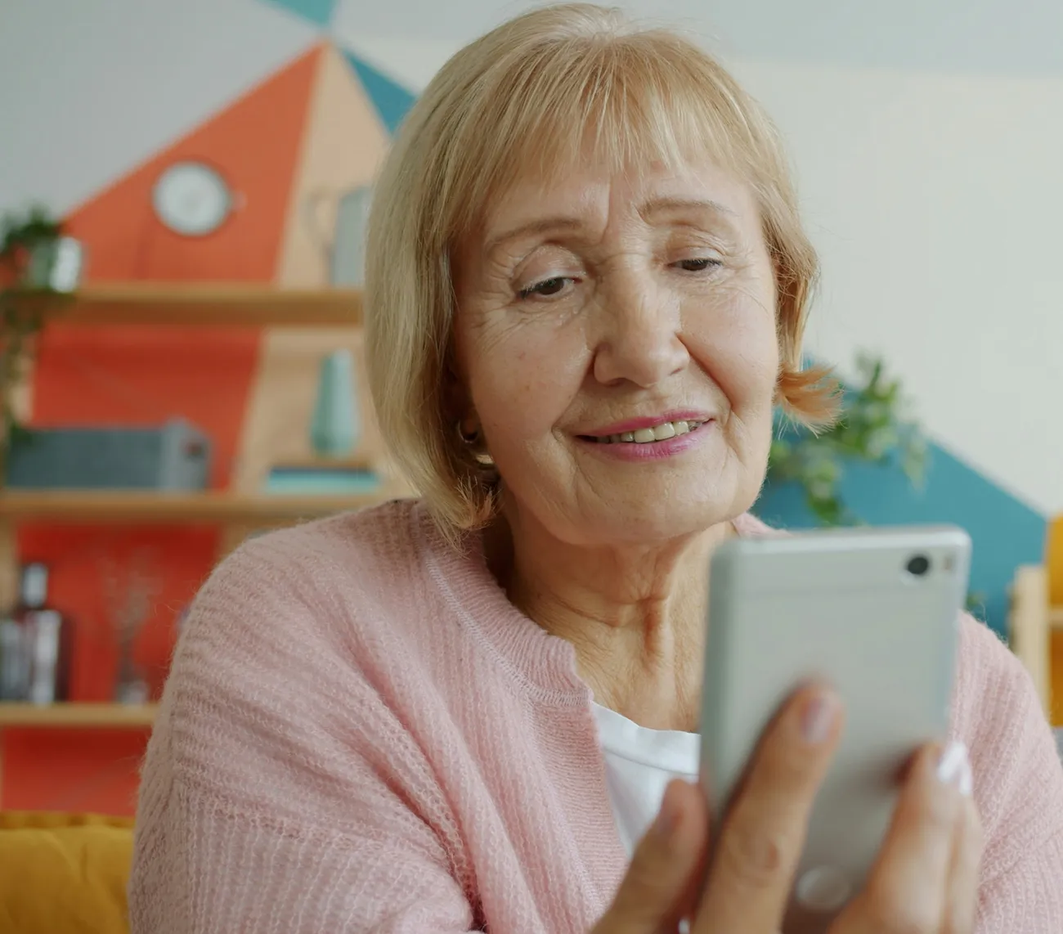
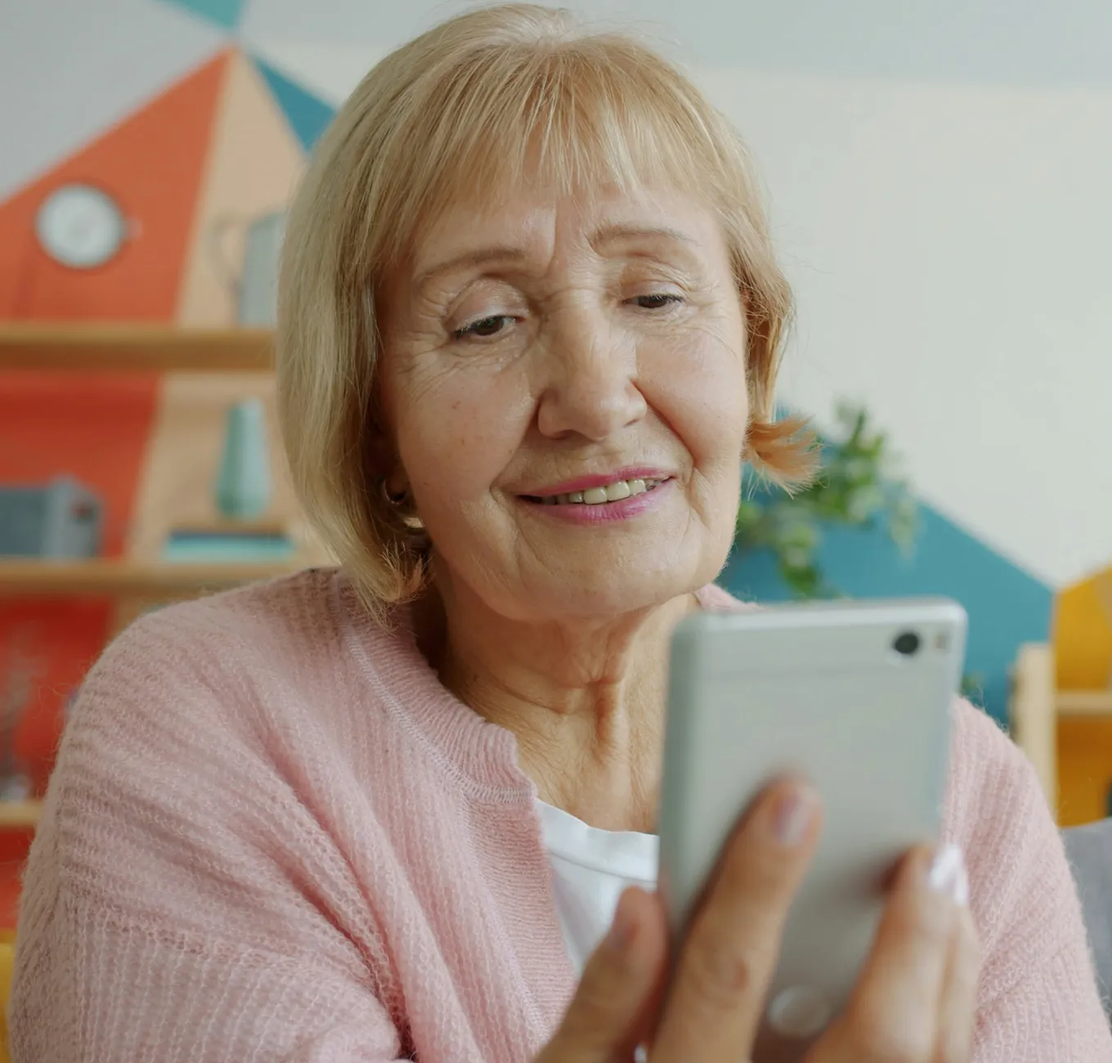
About hero: recrop so the phone is clear, shoulder at the edge, more space before the text
Claude-Session: https://claude.ai/code/session_01E5z8CGgsBBaHRpGiq45ZM7

diff --git a/examples/check/index.html b/examples/check/index.html
@@ -8,12 +8,12 @@
 <meta name="theme-color" content="#FAF7F2">
 <meta property="og:title" content="Example: check a message · ChatRetiree">
 <meta property="og:description" content="Tap through samples of ChatRetiree checking a message.">
-<meta property="og:image" content="https://chatretiree.com/assets/icon.png?v=19">
-<link rel="icon" href="../../assets/favicon.png?v=19" type="image/png">
-<link rel="apple-touch-icon" href="../../assets/icon.png?v=19">
-<link rel="stylesheet" href="../../assets/site.css?v=19">
-<script src="../../assets/site.js?v=19"></script>
-<script src="../../assets/examples.js?v=19"></script>
+<meta property="og:image" content="https://chatretiree.com/assets/icon.png?v=23">
+<link rel="icon" href="../../assets/favicon.png?v=23" type="image/png">
+<link rel="apple-touch-icon" href="../../assets/icon.png?v=23">
+<link rel="stylesheet" href="../../assets/site.css?v=23">
+<script src="../../assets/site.js?v=23"></script>
+<script src="../../assets/examples.js?v=23"></script>
 </head>
 <body>
 <a class="skip" href="#main">Skip to main content</a>
@@ -43,7 +43,7 @@
   <h2 class="ex-h">A text about a package</h2>
   <p class="who-label">Someone pastes a text they got, then taps “Look at it together.”</p>
   <div class="ex-row">
-    <div class="ex-phone"><figure class="device step-in"><div class="device-screen" tabindex="0" role="group" aria-label="App screen. Scroll to see more."><img src="../../assets/app/package-input.webp?v=19" alt="The app with a pasted text: PARCEL NOTICE: Your package is on hold due to an unpaid $1.99 redelivery fee. Pay now to avoid return to sender, with a link." width="390"></div></figure><button class="btn btn-primary go" type="button">Look at it together<svg viewBox="0 0 24 24" fill="none" stroke="currentColor" stroke-width="2" stroke-linecap="round" stroke-linejoin="round" aria-hidden="true" focusable="false"><path d="M5 12h14M13 6l6 6-6 6"/></svg></button><p class="thinking" aria-hidden="true"><span class="dots"><i></i><i></i><i></i></span>Looking at it with you…</p><div class="answer" tabindex="-1"><figure class="device "><div class="device-screen" tabindex="0" role="group" aria-label="App screen. Scroll to see more."><img src="../../assets/app/package.webp?v=19" alt="The app’s answer: This has the signs of a scam. This message has several signs that are common in scams. What we’d do next: Don’t reply, click links or pay. Contact the company using a phone number or website you already trust. Why we think so: It asks for a small fee. Fake delivery notices do this to collect card details. It warns that something bad will happen to your account, benefits or device. It pushes you to act right away, before you have time to check." width="390"></div></figure><p class="scroll-hint">Scroll inside the phone to see more.</p></div></div>
+    <div class="ex-phone"><figure class="device step-in"><div class="device-screen" tabindex="0" role="group" aria-label="App screen. Scroll to see more."><img src="../../assets/app/package-input.webp?v=23" alt="The app with a pasted text: PARCEL NOTICE: Your package is on hold due to an unpaid $1.99 redelivery fee. Pay now to avoid return to sender, with a link." width="390"></div></figure><button class="btn btn-primary go" type="button">Look at it together<svg viewBox="0 0 24 24" fill="none" stroke="currentColor" stroke-width="2" stroke-linecap="round" stroke-linejoin="round" aria-hidden="true" focusable="false"><path d="M5 12h14M13 6l6 6-6 6"/></svg></button><p class="thinking" aria-hidden="true"><span class="dots"><i></i><i></i><i></i></span>Looking at it with you…</p><div class="answer" tabindex="-1"><figure class="device "><div class="device-screen" tabindex="0" role="group" aria-label="App screen. Scroll to see more."><img src="../../assets/app/package.webp?v=23" alt="The app’s answer: This has the signs of a scam. This message has several signs that are common in scams. What we’d do next: Don’t reply, click links or pay. Contact the company using a phone number or website you already trust. Why we think so: It asks for a small fee. Fake delivery notices do this to collect card details. It warns that something bad will happen to your account, benefits or device. It pushes you to act right away, before you have time to check." width="390"></div></figure><p class="scroll-hint">Scroll inside the phone to see more.</p></div></div>
     <div class="ex-side"><p>The app looks for the warning signs scammers rely on, checks links against Google’s list of known harmful websites without opening them, and tells you what to do next.</p><p style="margin-top:12px">It never calls something “safe.” When it can’t tell, it says so and helps you check another way.</p></div>
   </div>
 </article>
@@ -51,7 +51,7 @@
   <h2 class="ex-h">A picture of a bank text</h2>
   <p class="who-label">Someone adds a screenshot. The app reads the words right on the phone.</p>
   <div class="ex-row">
-    <div class="ex-phone"><figure class="device step-in"><div class="device-screen" tabindex="0" role="group" aria-label="App screen. Scroll to see more."><img src="../../assets/app/bank-input.webp?v=19" alt="The app showing a screenshot of a text from First Harbor Bank asking to move savings to a new safe account." width="390"></div></figure><button class="btn btn-primary go" type="button">Look at it together<svg viewBox="0 0 24 24" fill="none" stroke="currentColor" stroke-width="2" stroke-linecap="round" stroke-linejoin="round" aria-hidden="true" focusable="false"><path d="M5 12h14M13 6l6 6-6 6"/></svg></button><p class="thinking" aria-hidden="true"><span class="dots"><i></i><i></i><i></i></span>Looking at it with you…</p><div class="answer" tabindex="-1"><figure class="device "><div class="device-screen" tabindex="0" role="group" aria-label="App screen. Scroll to see more."><img src="../../assets/app/bank.webp?v=19" alt="The app’s answer: This has the signs of a scam. What we’d do next: Don’t reply or move any money. Call your bank using the number on the back of your card or on your statement. Why we think so: It asks you to move money to a so-called safe account. Real banks never ask you to do this. It tells you to keep it secret. It warns that something bad will happen to your account." width="390"></div></figure><p class="scroll-hint">Scroll inside the phone to see more.</p></div></div>
+    <div class="ex-phone"><figure class="device step-in"><div class="device-screen" tabindex="0" role="group" aria-label="App screen. Scroll to see more."><img src="../../assets/app/bank-input.webp?v=23" alt="The app showing a screenshot of a text from First Harbor Bank asking to move savings to a new safe account." width="390"></div></figure><button class="btn btn-primary go" type="button">Look at it together<svg viewBox="0 0 24 24" fill="none" stroke="currentColor" stroke-width="2" stroke-linecap="round" stroke-linejoin="round" aria-hidden="true" focusable="false"><path d="M5 12h14M13 6l6 6-6 6"/></svg></button><p class="thinking" aria-hidden="true"><span class="dots"><i></i><i></i><i></i></span>Looking at it with you…</p><div class="answer" tabindex="-1"><figure class="device "><div class="device-screen" tabindex="0" role="group" aria-label="App screen. Scroll to see more."><img src="../../assets/app/bank.webp?v=23" alt="The app’s answer: This has the signs of a scam. What we’d do next: Don’t reply or move any money. Call your bank using the number on the back of your card or on your statement. Why we think so: It asks you to move money to a so-called safe account. Real banks never ask you to do this. It tells you to keep it secret. It warns that something bad will happen to your account." width="390"></div></figure><p class="scroll-hint">Scroll inside the phone to see more.</p></div></div>
     <div class="ex-side"><p>The app looks for the warning signs scammers rely on, checks links against Google’s list of known harmful websites without opening them, and tells you what to do next.</p><p style="margin-top:12px">It never calls something “safe.” When it can’t tell, it says so and helps you check another way.</p></div>
   </div>
 </article>
@@ -59,7 +59,7 @@
   <h2 class="ex-h">A worrying phone call</h2>
   <p class="who-label">Someone types what happened on a call.</p>
   <div class="ex-row">
-    <div class="ex-phone"><figure class="device step-in"><div class="device-screen" tabindex="0" role="group" aria-label="App screen. Scroll to see more."><img src="../../assets/app/call-input.webp?v=19" alt="The app with a description: a young man called saying he was my grandson, in jail, needing $3,000 bail paid in gift cards." width="390"></div></figure><button class="btn btn-primary go" type="button">Look at it together<svg viewBox="0 0 24 24" fill="none" stroke="currentColor" stroke-width="2" stroke-linecap="round" stroke-linejoin="round" aria-hidden="true" focusable="false"><path d="M5 12h14M13 6l6 6-6 6"/></svg></button><p class="thinking" aria-hidden="true"><span class="dots"><i></i><i></i><i></i></span>Looking at it with you…</p><div class="answer" tabindex="-1"><figure class="device "><div class="device-screen" tabindex="0" role="group" aria-label="App screen. Scroll to see more."><img src="../../assets/app/call.webp?v=19" alt="The app’s answer: This has the signs of a scam. If you’re worried someone you love is in trouble: if someone may be in danger right now, call 911. Hang up, then call your family member yourself on a number you already have. Don’t send any money, gift cards or cryptocurrency. Why we think so: it asks for payment with gift cards, it tells you to keep it secret, and it describes a family emergency that needs money fast." width="390"></div></figure><p class="scroll-hint">Scroll inside the phone to see more.</p></div></div>
+    <div class="ex-phone"><figure class="device step-in"><div class="device-screen" tabindex="0" role="group" aria-label="App screen. Scroll to see more."><img src="../../assets/app/call-input.webp?v=23" alt="The app with a description: a young man called saying he was my grandson, in jail, needing $3,000 bail paid in gift cards." width="390"></div></figure><button class="btn btn-primary go" type="button">Look at it together<svg viewBox="0 0 24 24" fill="none" stroke="currentColor" stroke-width="2" stroke-linecap="round" stroke-linejoin="round" aria-hidden="true" focusable="false"><path d="M5 12h14M13 6l6 6-6 6"/></svg></button><p class="thinking" aria-hidden="true"><span class="dots"><i></i><i></i><i></i></span>Looking at it with you…</p><div class="answer" tabindex="-1"><figure class="device "><div class="device-screen" tabindex="0" role="group" aria-label="App screen. Scroll to see more."><img src="../../assets/app/call.webp?v=23" alt="The app’s answer: This has the signs of a scam. If you’re worried someone you love is in trouble: if someone may be in danger right now, call 911. Hang up, then call your family member yourself on a number you already have. Don’t send any money, gift cards or cryptocurrency. Why we think so: it asks for payment with gift cards, it tells you to keep it secret, and it describes a family emergency that needs money fast." width="390"></div></figure><p class="scroll-hint">Scroll inside the phone to see more.</p></div></div>
     <div class="ex-side"><p>The app looks for the warning signs scammers rely on, checks links against Google’s list of known harmful websites without opening them, and tells you what to do next.</p><p style="margin-top:12px">It never calls something “safe.” When it can’t tell, it says so and helps you check another way.</p></div>
   </div>
 </article>
@@ -67,7 +67,7 @@
   <h2 class="ex-h">A message from a doctor’s office</h2>
   <p class="who-label">Not everything is a scam. When we can’t tell, we say so.</p>
   <div class="ex-row">
-    <div class="ex-phone"><figure class="device step-in"><div class="device-screen" tabindex="0" role="group" aria-label="App screen. Scroll to see more."><img src="../../assets/app/doctor-input.webp?v=19" alt="The app with a pasted text: Hi, this is Dr. Patel’s office calling about your recent test results. Please call us back." width="390"></div></figure><button class="btn btn-primary go" type="button">Look at it together<svg viewBox="0 0 24 24" fill="none" stroke="currentColor" stroke-width="2" stroke-linecap="round" stroke-linejoin="round" aria-hidden="true" focusable="false"><path d="M5 12h14M13 6l6 6-6 6"/></svg></button><p class="thinking" aria-hidden="true"><span class="dots"><i></i><i></i><i></i></span>Looking at it with you…</p><div class="answer" tabindex="-1"><figure class="device "><div class="device-screen" tabindex="0" role="group" aria-label="App screen. Scroll to see more."><img src="../../assets/app/doctor.webp?v=19" alt="The app’s answer: Check with them before you do anything. Nothing proves this message is a scam, but some things need checking before you respond. What we’d do next: contact them yourself using a phone number or website you already have, not one from the message." width="390"></div></figure><p class="scroll-hint">Scroll inside the phone to see more.</p></div></div>
+    <div class="ex-phone"><figure class="device step-in"><div class="device-screen" tabindex="0" role="group" aria-label="App screen. Scroll to see more."><img src="../../assets/app/doctor-input.webp?v=23" alt="The app with a pasted text: Hi, this is Dr. Patel’s office calling about your recent test results. Please call us back." width="390"></div></figure><button class="btn btn-primary go" type="button">Look at it together<svg viewBox="0 0 24 24" fill="none" stroke="currentColor" stroke-width="2" stroke-linecap="round" stroke-linejoin="round" aria-hidden="true" focusable="false"><path d="M5 12h14M13 6l6 6-6 6"/></svg></button><p class="thinking" aria-hidden="true"><span class="dots"><i></i><i></i><i></i></span>Looking at it with you…</p><div class="answer" tabindex="-1"><figure class="device "><div class="device-screen" tabindex="0" role="group" aria-label="App screen. Scroll to see more."><img src="../../assets/app/doctor.webp?v=23" alt="The app’s answer: Check with them before you do anything. Nothing proves this message is a scam, but some things need checking before you respond. What we’d do next: contact them yourself using a phone number or website you already have, not one from the message." width="390"></div></figure><p class="scroll-hint">Scroll inside the phone to see more.</p></div></div>
     <div class="ex-side"><p>The app looks for the warning signs scammers rely on, checks links against Google’s list of known harmful websites without opening them, and tells you what to do next.</p><p style="margin-top:12px">It never calls something “safe.” When it can’t tell, it says so and helps you check another way.</p></div>
   </div>
 </article>

diff --git a/examples/scams/index.html b/examples/scams/index.html
@@ -8,12 +8,12 @@
 <meta name="theme-color" content="#FAF7F2">
 <meta property="og:title" content="Example: scams going around · ChatRetiree">
 <meta property="og:description" content="Tap through questions about scams, answered from official FTC, FBI and HHS alerts.">
-<meta property="og:image" content="https://chatretiree.com/assets/icon.png?v=19">
-<link rel="icon" href="../../assets/favicon.png?v=19" type="image/png">
-<link rel="apple-touch-icon" href="../../assets/icon.png?v=19">
-<link rel="stylesheet" href="../../assets/site.css?v=19">
-<script src="../../assets/site.js?v=19"></script>
-<script src="../../assets/examples.js?v=19"></script>
+<meta property="og:image" content="https://chatretiree.com/assets/icon.png?v=23">
+<link rel="icon" href="../../assets/favicon.png?v=23" type="image/png">
+<link rel="apple-touch-icon" href="../../assets/icon.png?v=23">
+<link rel="stylesheet" href="../../assets/site.css?v=23">
+<script src="../../assets/site.js?v=23"></script>
+<script src="../../assets/examples.js?v=23"></script>
 </head>
 <body>
 <a class="skip" href="#main">Skip to main content</a>
@@ -43,7 +43,7 @@
   <h2 class="ex-h">Why gift cards?</h2>
   <p class="who-label">Someone asks about a scam.</p>
   <div class="ex-row">
-    <div class="ex-phone"><div class="answer shown" tabindex="-1"><figure class="device "><div class="device-screen" tabindex="0" role="group" aria-label="App screen. Scroll to see more."><img src="../../assets/app/scam-giftcards.webp?v=19" alt="Question: Why do scammers ask for gift cards? The app first says: Please don’t send them anything. Then the short answer: Scammers prefer gift cards because it is almost impossible to get your money back once they have collected it. Scammers want you to panic and send money quickly, before you have time to think or talk to someone you trust." width="390"></div></figure><p class="scroll-hint">Scroll inside the phone to see more.</p></div></div>
+    <div class="ex-phone"><div class="answer shown" tabindex="-1"><figure class="device "><div class="device-screen" tabindex="0" role="group" aria-label="App screen. Scroll to see more."><img src="../../assets/app/scam-giftcards.webp?v=23" alt="Question: Why do scammers ask for gift cards? The app first says: Please don’t send them anything. Then the short answer: Scammers prefer gift cards because it is almost impossible to get your money back once they have collected it. Scammers want you to panic and send money quickly, before you have time to think or talk to someone you trust." width="390"></div></figure><p class="scroll-hint">Scroll inside the phone to see more.</p></div></div>
     <div class="ex-side"><p>Answers come only from official warnings by the FTC, the FBI and the U.S. Department of Health and Human Services. The app shows which alert each answer comes from.</p><p style="margin-top:12px">When the official warnings don’t cover something, we say so instead of guessing. And we never suggest paying a scammer anything.</p></div>
   </div>
 </article>
@@ -51,7 +51,7 @@
   <h2 class="ex-h">A grandchild needs bail</h2>
   <p class="who-label">Someone asks about a scam.</p>
   <div class="ex-row">
-    <div class="ex-phone"><div class="answer shown" tabindex="-1"><figure class="device "><div class="device-screen" tabindex="0" role="group" aria-label="App screen. Scroll to see more."><img src="../../assets/app/scam-bail.webp?v=19" alt="Question: Someone says my grandson is in jail and needs bail money. What do I do? The short answer: If you get a call from someone claiming to be a family member in trouble, slow down and hang up the phone. Then call another family member or friend to check whether the story is true." width="390"></div></figure><p class="scroll-hint">Scroll inside the phone to see more.</p></div></div>
+    <div class="ex-phone"><div class="answer shown" tabindex="-1"><figure class="device "><div class="device-screen" tabindex="0" role="group" aria-label="App screen. Scroll to see more."><img src="../../assets/app/scam-bail.webp?v=23" alt="Question: Someone says my grandson is in jail and needs bail money. What do I do? The short answer: If you get a call from someone claiming to be a family member in trouble, slow down and hang up the phone. Then call another family member or friend to check whether the story is true." width="390"></div></figure><p class="scroll-hint">Scroll inside the phone to see more.</p></div></div>
     <div class="ex-side"><p>Answers come only from official warnings by the FTC, the FBI and the U.S. Department of Health and Human Services. The app shows which alert each answer comes from.</p><p style="margin-top:12px">When the official warnings don’t cover something, we say so instead of guessing. And we never suggest paying a scammer anything.</p></div>
   </div>
 </article>
@@ -59,7 +59,7 @@
   <h2 class="ex-h">Paying them a little less</h2>
   <p class="who-label">Someone asks about a scam.</p>
   <div class="ex-row">
-    <div class="ex-phone"><div class="answer shown" tabindex="-1"><figure class="device "><div class="device-screen" tabindex="0" role="group" aria-label="App screen. Scroll to see more."><img src="../../assets/app/scam-haggle.webp?v=19" alt="Question: Should I offer the scammer a smaller amount so they leave me alone? The app says: Please don’t send them anything. Please don’t send them any money or gift cards, and don’t offer a smaller amount. If you already sent money or gift cards, call your bank or the gift card company right away." width="390"></div></figure><p class="scroll-hint">Scroll inside the phone to see more.</p></div></div>
+    <div class="ex-phone"><div class="answer shown" tabindex="-1"><figure class="device "><div class="device-screen" tabindex="0" role="group" aria-label="App screen. Scroll to see more."><img src="../../assets/app/scam-haggle.webp?v=23" alt="Question: Should I offer the scammer a smaller amount so they leave me alone? The app says: Please don’t send them anything. Please don’t send them any money or gift cards, and don’t offer a smaller amount. If you already sent money or gift cards, call your bank or the gift card company right away." width="390"></div></figure><p class="scroll-hint">Scroll inside the phone to see more.</p></div></div>
     <div class="ex-side"><p>Answers come only from official warnings by the FTC, the FBI and the U.S. Department of Health and Human Services. The app shows which alert each answer comes from.</p><p style="margin-top:12px">When the official warnings don’t cover something, we say so instead of guessing. And we never suggest paying a scammer anything.</p></div>
   </div>
 </article>

diff --git a/examples/medicare/index.html b/examples/medicare/index.html
@@ -8,12 +8,12 @@
 <meta name="theme-color" content="#FAF7F2">
 <meta property="og:title" content="Example: Medicare questions · ChatRetiree">
 <meta property="og:description" content="Tap through sample Medicare questions and ChatRetiree’s answers from the official guides.">
-<meta property="og:image" content="https://chatretiree.com/assets/icon.png?v=19">
-<link rel="icon" href="../../assets/favicon.png?v=19" type="image/png">
-<link rel="apple-touch-icon" href="../../assets/icon.png?v=19">
-<link rel="stylesheet" href="../../assets/site.css?v=19">
-<script src="../../assets/site.js?v=19"></script>
-<script src="../../assets/examples.js?v=19"></script>
+<meta property="og:image" content="https://chatretiree.com/assets/icon.png?v=23">
+<link rel="icon" href="../../assets/favicon.png?v=23" type="image/png">
+<link rel="apple-touch-icon" href="../../assets/icon.png?v=23">
+<link rel="stylesheet" href="../../assets/site.css?v=23">
+<script src="../../assets/site.js?v=23"></script>
+<script src="../../assets/examples.js?v=23"></script>
 </head>
 <body>
 <a class="skip" href="#main">Skip to main content</a>
@@ -43,7 +43,7 @@
   <h2 class="ex-h">Does Medicare cover dental?</h2>
   <p class="who-label">Someone asks in their own words.</p>
   <div class="ex-row">
-    <div class="ex-phone"><div class="answer shown" tabindex="-1"><figure class="device "><div class="device-screen" tabindex="0" role="group" aria-label="App screen. Scroll to see more."><img src="../../assets/app/medicare-dental.webp?v=19" alt="Question: Does Original Medicare cover dental care? The app’s answer: In most cases, Original Medicare does not cover routine dental services like cleanings, fillings, tooth extractions, or dentures." width="390"></div></figure><p class="scroll-hint">Scroll inside the phone to see more.</p></div></div>
+    <div class="ex-phone"><div class="answer shown" tabindex="-1"><figure class="device "><div class="device-screen" tabindex="0" role="group" aria-label="App screen. Scroll to see more."><img src="../../assets/app/medicare-dental.webp?v=23" alt="Question: Does Original Medicare cover dental care? The app’s answer: In most cases, Original Medicare does not cover routine dental services like cleanings, fillings, tooth extractions, or dentures." width="390"></div></figure><p class="scroll-hint">Scroll inside the phone to see more.</p></div></div>
     <div class="ex-side"><p>Answers come only from the official Medicare guides. Tap “More detail and sources” in the app to see the guide’s exact words and page.</p><p style="margin-top:12px">For questions about your own plan, the app points you to 1-800-MEDICARE or your free local SHIP counselor.</p></div>
   </div>
 </article>
@@ -51,7 +51,7 @@
   <h2 class="ex-h">Hearing aids</h2>
   <p class="who-label">Someone asks in their own words.</p>
   <div class="ex-row">
-    <div class="ex-phone"><div class="answer shown" tabindex="-1"><figure class="device "><div class="device-screen" tabindex="0" role="group" aria-label="App screen. Scroll to see more."><img src="../../assets/app/medicare-hearing.webp?v=19" alt="Question: Does Medicare pay for hearing aids? The app’s answer: Original Medicare does not cover hearing aids or exams for fitting them. Some Medicare Advantage Plans may offer coverage for hearing services that Original Medicare does not." width="390"></div></figure><p class="scroll-hint">Scroll inside the phone to see more.</p></div></div>
+    <div class="ex-phone"><div class="answer shown" tabindex="-1"><figure class="device "><div class="device-screen" tabindex="0" role="group" aria-label="App screen. Scroll to see more."><img src="../../assets/app/medicare-hearing.webp?v=23" alt="Question: Does Medicare pay for hearing aids? The app’s answer: Original Medicare does not cover hearing aids or exams for fitting them. Some Medicare Advantage Plans may offer coverage for hearing services that Original Medicare does not." width="390"></div></figure><p class="scroll-hint">Scroll inside the phone to see more.</p></div></div>
     <div class="ex-side"><p>Answers come only from the official Medicare guides. Tap “More detail and sources” in the app to see the guide’s exact words and page.</p><p style="margin-top:12px">For questions about your own plan, the app points you to 1-800-MEDICARE or your free local SHIP counselor.</p></div>
   </div>
 </article>
@@ -59,7 +59,7 @@
   <h2 class="ex-h">When to sign up</h2>
   <p class="who-label">Someone asks in their own words.</p>
   <div class="ex-row">
-    <div class="ex-phone"><div class="answer shown" tabindex="-1"><figure class="device "><div class="device-screen" tabindex="0" role="group" aria-label="App screen. Scroll to see more."><img src="../../assets/app/medicare-signup.webp?v=19" alt="Question: When can I sign up for Medicare? The app’s answer: Your Initial Enrollment Period is a 7-month window that starts 3 months before the month you turn 65, includes your birthday month, and ends 3 months after." width="390"></div></figure><p class="scroll-hint">Scroll inside the phone to see more.</p></div></div>
+    <div class="ex-phone"><div class="answer shown" tabindex="-1"><figure class="device "><div class="device-screen" tabindex="0" role="group" aria-label="App screen. Scroll to see more."><img src="../../assets/app/medicare-signup.webp?v=23" alt="Question: When can I sign up for Medicare? The app’s answer: Your Initial Enrollment Period is a 7-month window that starts 3 months before the month you turn 65, includes your birthday month, and ends 3 months after." width="390"></div></figure><p class="scroll-hint">Scroll inside the phone to see more.</p></div></div>
     <div class="ex-side"><p>Answers come only from the official Medicare guides. Tap “More detail and sources” in the app to see the guide’s exact words and page.</p><p style="margin-top:12px">For questions about your own plan, the app points you to 1-800-MEDICARE or your free local SHIP counselor.</p></div>
   </div>
 </article>

diff --git a/index.html b/index.html
@@ -8,11 +8,11 @@
 <meta name="theme-color" content="#FAF7F2">
 <meta property="og:title" content="ChatRetiree: let’s look at it together">
 <meta property="og:description" content="ChatRetiree is like a friend you can ask when a text, email or call doesn’t feel right. Coming soon to iPhone and Android.">
-<meta property="og:image" content="https://chatretiree.com/assets/icon.png?v=19">
-<link rel="icon" href="assets/favicon.png?v=19" type="image/png">
-<link rel="apple-touch-icon" href="assets/icon.png?v=19">
-<link rel="stylesheet" href="assets/site.css?v=19">
-<script src="assets/site.js?v=19"></script>
+<meta property="og:image" content="https://chatretiree.com/assets/icon.png?v=23">
+<link rel="icon" href="assets/favicon.png?v=23" type="image/png">
+<link rel="apple-touch-icon" href="assets/icon.png?v=23">
+<link rel="stylesheet" href="assets/site.css?v=23">
+<script src="assets/site.js?v=23"></script>
 
 </head>
 <body>
@@ -113,7 +113,7 @@
         </ul>
         <a class="h-link" href="examples/check/">See four real samples<svg viewBox="0 0 24 24" fill="none" stroke="currentColor" stroke-width="2" stroke-linecap="round" stroke-linejoin="round" aria-hidden="true" focusable="false"><path d="M5 12h14M13 6l6 6-6 6"/></svg></a>
       </div>
-      <div class="h-row-art t-teal-bg"><figure class="h-ph"><div class="h-ph-screen"><img src="assets/app/bank.webp?v=19" width="390" alt="The app’s answer to a bank text asking to move savings to a safe account: This has the signs of a scam. Don’t reply or move any money. Call your bank using the number on the back of your card."></div></figure></div>
+      <div class="h-row-art t-teal-bg"><figure class="h-ph"><div class="h-ph-screen"><img src="assets/app/bank.webp?v=23" width="390" alt="The app’s answer to a bank text asking to move savings to a safe account: This has the signs of a scam. Don’t reply or move any money. Call your bank using the number on the back of your card."></div></figure></div>
     </article>
 
     <article class="h-row h-row-flip">
@@ -128,7 +128,7 @@
         </ul>
         <a class="h-link" href="examples/medicare/">See sample questions<svg viewBox="0 0 24 24" fill="none" stroke="currentColor" stroke-width="2" stroke-linecap="round" stroke-linejoin="round" aria-hidden="true" focusable="false"><path d="M5 12h14M13 6l6 6-6 6"/></svg></a>
       </div>
-      <div class="h-row-art t-blue-bg"><figure class="h-ph"><div class="h-ph-screen"><img src="assets/app/medicare-hearing.webp?v=19" width="390" alt="Question: Does Medicare pay for hearing aids? The app’s answer: Original Medicare does not cover hearing aids or exams for fitting them. Some Medicare Advantage Plans may offer coverage for hearing services."></div></figure></div>
+      <div class="h-row-art t-blue-bg"><figure class="h-ph"><div class="h-ph-screen"><img src="assets/app/medicare-hearing.webp?v=23" width="390" alt="Question: Does Medicare pay for hearing aids? The app’s answer: Original Medicare does not cover hearing aids or exams for fitting them. Some Medicare Advantage Plans may offer coverage for hearing services."></div></figure></div>
     </article>
 
     <article class="h-row">
@@ -143,7 +143,7 @@
         </ul>
         <a class="h-link" href="examples/scams/">See sample questions<svg viewBox="0 0 24 24" fill="none" stroke="currentColor" stroke-width="2" stroke-linecap="round" stroke-linejoin="round" aria-hidden="true" focusable="false"><path d="M5 12h14M13 6l6 6-6 6"/></svg></a>
       </div>
-      <div class="h-row-art t-clay-bg"><figure class="h-ph"><div class="h-ph-screen"><img class="h-shift" src="assets/app/scam-giftcards.webp?v=19" width="390" alt="Question: Why do scammers ask for gift cards? The app says: Please don’t send them anything. The short answer: Scammers prefer gift cards because it is almost impossible to get your money back."></div></figure></div>
+      <div class="h-row-art t-clay-bg"><figure class="h-ph"><div class="h-ph-screen"><img class="h-shift" src="assets/app/scam-giftcards.webp?v=23" width="390" alt="Question: Why do scammers ask for gift cards? The app says: Please don’t send them anything. The short answer: Scammers prefer gift cards because it is almost impossible to get your money back."></div></figure></div>
     </article>
 
     <article class="h-row h-row-flip">
@@ -158,7 +158,7 @@
         </ul>
         <a class="h-link" href="examples/trusted/">See how it works<svg viewBox="0 0 24 24" fill="none" stroke="currentColor" stroke-width="2" stroke-linecap="round" stroke-linejoin="round" aria-hidden="true" focusable="false"><path d="M5 12h14M13 6l6 6-6 6"/></svg></a>
       </div>
-      <div class="h-row-art t-sage-bg"><figure class="h-ph"><div class="h-ph-screen"><img src="assets/app/trusted.webp?v=19" width="390" alt="The app’s result screen with an Email Sarah button to ask someone you trust."></div></figure></div>
+      <div class="h-row-art t-sage-bg"><figure class="h-ph"><div class="h-ph-screen"><img src="assets/app/trusted.webp?v=23" width="390" alt="The app’s result screen with an Email Sarah button to ask someone you trust."></div></figure></div>
     </article>
   </div>
 </section>

diff --git a/examples/trusted/index.html b/examples/trusted/index.html
@@ -8,12 +8,12 @@
 <meta name="theme-color" content="#FAF7F2">
 <meta property="og:title" content="Example: ask someone you trust · ChatRetiree">
 <meta property="og:description" content="See how ChatRetiree helps you send what you found to someone you trust.">
-<meta property="og:image" content="https://chatretiree.com/assets/icon.png?v=19">
-<link rel="icon" href="../../assets/favicon.png?v=19" type="image/png">
-<link rel="apple-touch-icon" href="../../assets/icon.png?v=19">
-<link rel="stylesheet" href="../../assets/site.css?v=19">
-<script src="../../assets/site.js?v=19"></script>
-<script src="../../assets/examples.js?v=19"></script>
+<meta property="og:image" content="https://chatretiree.com/assets/icon.png?v=23">
+<link rel="icon" href="../../assets/favicon.png?v=23" type="image/png">
+<link rel="apple-touch-icon" href="../../assets/icon.png?v=23">
+<link rel="stylesheet" href="../../assets/site.css?v=23">
+<script src="../../assets/site.js?v=23"></script>
+<script src="../../assets/examples.js?v=23"></script>
 </head>
 <body>
 <a class="skip" href="#main">Skip to main content</a>
@@ -43,7 +43,7 @@
   <h2 class="ex-h">Ask Sarah about a text</h2>
   <p class="who-label">After a check, someone taps “Email Sarah.”</p>
   <div class="ex-row">
-    <div class="ex-phone"><div class="answer shown" tabindex="-1"><figure class="device "><div class="device-screen" tabindex="0" role="group" aria-label="App screen. Scroll to see more."><img src="../../assets/app/trusted.webp?v=19" alt="The app’s result screen with an Ask someone you trust card and an Email Sarah button." width="390"></div></figure><p class="scroll-hint">Scroll inside the phone to see more.</p></div></div>
+    <div class="ex-phone"><div class="answer shown" tabindex="-1"><figure class="device "><div class="device-screen" tabindex="0" role="group" aria-label="App screen. Scroll to see more."><img src="../../assets/app/trusted.webp?v=23" alt="The app’s result screen with an Ask someone you trust card and an Email Sarah button." width="390"></div></figure><p class="scroll-hint">Scroll inside the phone to see more.</p></div></div>
     <div class="ex-side"><p>Their own email app opens with this note. They can read it and change it. Nothing is sent until they press send.</p><div class="email" style="margin-top:16px"><div class="hdr"><div><strong>To:</strong> Sarah</div><div><strong>Subject:</strong> Can you look at this with me?</div></div><div class="body">Hi Sarah, can you look at this with me before I do anything?
 
 ChatRetiree said: This has the signs of a scam.

diff --git a/assets/site.css b/assets/site.css
@@ -550,7 +550,7 @@ a.h-pill:hover{background:rgba(255,255,255,.2);color:var(--deep-ink)}
 .pv-sec p{color:var(--ink)}
 /* About hero: full photo with text over a teal fade */
 .a-hero-photo{position:relative;overflow:hidden;padding:0;background:var(--deep)}
-.a-photo-bg{position:absolute;inset:0;background:url(photos/woman-phone-wide.webp?v=19) 78% 20%/cover no-repeat}
+.a-photo-bg{position:absolute;inset:0;background:url(photos/woman-phone-wide.webp?v=23) 78% 20%/cover no-repeat}
 .a-photo-bg::after{content:"";position:absolute;inset:0;background:linear-gradient(180deg,rgba(10,68,64,.05) 0%,rgba(10,68,64,.35) 30%,var(--deep) 52%)}
 .a-hero-photo .a-hero-copy{position:relative;z-index:1;padding-top:300px;padding-bottom:64px}
 .a-hero-photo h1{max-width:13em}
@@ -641,3 +641,16 @@ a.h-pill:hover{background:rgba(255,255,255,.2);color:var(--deep-ink)}
   .a-hero-photo .a-photo-bg::after{background:linear-gradient(270deg,var(--deep) 0%,rgba(10,68,64,.8) 6%,rgba(10,68,64,.5) 13%,rgba(10,68,64,.24) 20%,rgba(10,68,64,.08) 26%,rgba(10,68,64,0) 32%)}
 }
 @media (min-width:700px){.a-hero-photo .a-credit{top:auto;bottom:16px}}
+/* About hero v20: wider crop (wall beyond the phone), more space between photo and text */
+@media (min-width:700px){
+  .a-hero-photo .a-photo-bg{width:50%;background-position:100% 60%}
+  .a-hero-photo .a-photo-bg::after{background:linear-gradient(270deg,var(--deep) 0%,rgba(10,68,64,.7) 5%,rgba(10,68,64,.35) 10%,rgba(10,68,64,.1) 15%,rgba(10,68,64,0) 20%)}
+  .a-hero-photo .a-hero-copy > *{max-width:42%}
+}
+@media (min-width:700px){.a-hero-photo .a-photo-bg{background-position:0% 60%}}
+@media (min-width:700px){
+  .a-hero-photo .a-photo-bg::after{background:linear-gradient(270deg,var(--deep) 0%,rgba(10,68,64,.6) 4%,rgba(10,68,64,.25) 8%,rgba(10,68,64,0) 13%)}
+}
+@media (min-width:700px) and (max-width:899px){.a-hero-photo .a-photo-bg{background-position:30% 60%}}
+@media (min-width:700px){.a-hero-photo .a-photo-bg{background-position:100% 60%}}
+@media (min-width:700px) and (max-width:899px){.a-hero-photo .a-photo-bg{background-position:72% 60%}}

diff --git a/about/index.html b/about/index.html
@@ -8,11 +8,11 @@
 <meta name="theme-color" content="#FAF7F2">
 <meta property="og:title" content="About us · ChatRetiree">
 <meta property="og:description" content="Why we built ChatRetiree, what we believe, and where our answers come from.">
-<meta property="og:image" content="https://chatretiree.com/assets/icon.png?v=19">
-<link rel="icon" href="../assets/favicon.png?v=19" type="image/png">
-<link rel="apple-touch-icon" href="../assets/icon.png?v=19">
-<link rel="stylesheet" href="../assets/site.css?v=19">
-<script src="../assets/site.js?v=19"></script>
+<meta property="og:image" content="https://chatretiree.com/assets/icon.png?v=23">
+<link rel="icon" href="../assets/favicon.png?v=23" type="image/png">
+<link rel="apple-touch-icon" href="../assets/icon.png?v=23">
+<link rel="stylesheet" href="../assets/site.css?v=23">
+<script src="../assets/site.js?v=23"></script>
 
 </head>
 <body>

diff --git a/privacy/index.html b/privacy/index.html
@@ -8,11 +8,11 @@
 <meta name="theme-color" content="#FAF7F2">
 <meta property="og:title" content="Privacy policy · ChatRetiree">
 <meta property="og:description" content="How the ChatRetiree app handles your information.">
-<meta property="og:image" content="https://chatretiree.com/assets/icon.png?v=19">
-<link rel="icon" href="../assets/favicon.png?v=19" type="image/png">
-<link rel="apple-touch-icon" href="../assets/icon.png?v=19">
-<link rel="stylesheet" href="../assets/site.css?v=19">
-<script src="../assets/site.js?v=19"></script>
+<meta property="og:image" content="https://chatretiree.com/assets/icon.png?v=23">
+<link rel="icon" href="../assets/favicon.png?v=23" type="image/png">
+<link rel="apple-touch-icon" href="../assets/icon.png?v=23">
+<link rel="stylesheet" href="../assets/site.css?v=23">
+<script src="../assets/site.js?v=23"></script>
 
 </head>
 <body>

diff --git a/app/index.html b/app/index.html
@@ -8,11 +8,11 @@
 <meta name="theme-color" content="#FAF7F2">
 <meta property="og:title" content="Get the app · ChatRetiree">
 <meta property="og:description" content="ChatRetiree is coming soon to iPhone and Android.">
-<meta property="og:image" content="https://chatretiree.com/assets/icon.png?v=19">
-<link rel="icon" href="../assets/favicon.png?v=19" type="image/png">
-<link rel="apple-touch-icon" href="../assets/icon.png?v=19">
-<link rel="stylesheet" href="../assets/site.css?v=19">
-<script src="../assets/site.js?v=19"></script>
+<meta property="og:image" content="https://chatretiree.com/assets/icon.png?v=23">
+<link rel="icon" href="../assets/favicon.png?v=23" type="image/png">
+<link rel="apple-touch-icon" href="../assets/icon.png?v=23">
+<link rel="stylesheet" href="../assets/site.css?v=23">
+<script src="../assets/site.js?v=23"></script>
 
 </head>
 <body>

diff --git a/contact/index.html b/contact/index.html
@@ -8,11 +8,11 @@
 <meta name="theme-color" content="#FAF7F2">
 <meta property="og:title" content="Contact us · ChatRetiree">
 <meta property="og:description" content="Questions or ideas? Email support@chatretiree.com.">
-<meta property="og:image" content="https://chatretiree.com/assets/icon.png?v=19">
-<link rel="icon" href="../assets/favicon.png?v=19" type="image/png">
-<link rel="apple-touch-icon" href="../assets/icon.png?v=19">
-<link rel="stylesheet" href="../assets/site.css?v=19">
-<script src="../assets/site.js?v=19"></script>
+<meta property="og:image" content="https://chatretiree.com/assets/icon.png?v=23">
+<link rel="icon" href="../assets/favicon.png?v=23" type="image/png">
+<link rel="apple-touch-icon" href="../assets/icon.png?v=23">
+<link rel="stylesheet" href="../assets/site.css?v=23">
+<script src="../assets/site.js?v=23"></script>
 
 </head>
 <body>

diff --git a/404.html b/404.html
@@ -8,11 +8,11 @@
 <meta name="theme-color" content="#FAF7F2">
 <meta property="og:title" content="Page not found · ChatRetiree">
 <meta property="og:description" content="We couldn’t find that page.">
-<meta property="og:image" content="https://chatretiree.com/assets/icon.png?v=19">
-<link rel="icon" href="/assets/favicon.png?v=19" type="image/png">
-<link rel="apple-touch-icon" href="/assets/icon.png?v=19">
-<link rel="stylesheet" href="/assets/site.css?v=19">
-<script src="/assets/site.js?v=19"></script>
+<meta property="og:image" content="https://chatretiree.com/assets/icon.png?v=23">
+<link rel="icon" href="/assets/favicon.png?v=23" type="image/png">
+<link rel="apple-touch-icon" href="/assets/icon.png?v=23">
+<link rel="stylesheet" href="/assets/site.css?v=23">
+<script src="/assets/site.js?v=23"></script>
 
 </head>
 <body>

diff --git a/tools/build.py b/tools/build.py
@@ -5,7 +5,7 @@ import pathlib, re
 
 ROOT = pathlib.Path(__file__).resolve().parent.parent
 # Bump when site.css or a script changes, so browsers fetch the new copy.
-VERSION = "19"
+VERSION = "23"
 
 def ico(body, fill=False):
     if fill:
